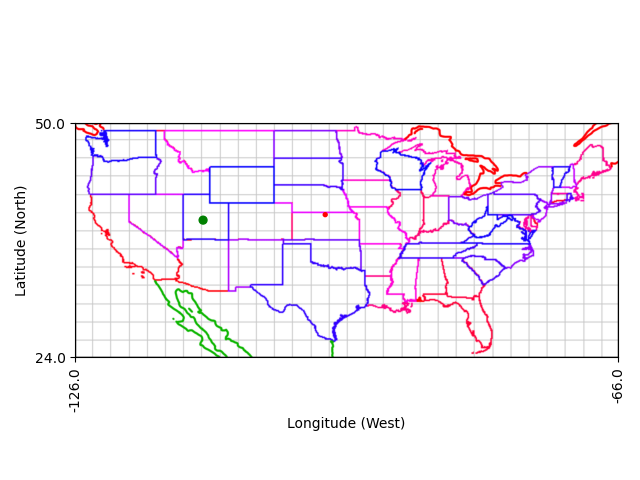
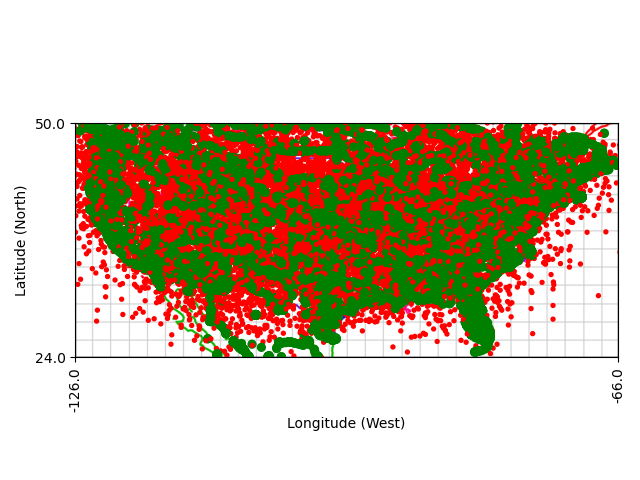
pray

diff --git a/evaluate_test.py b/evaluate_test.py
@@ -8,6 +8,7 @@ from torch.utils.data import Dataset, DataLoader
 import torch.nn as nn
 import matplotlib.pyplot as plt
 from gui import GUI
+from train import unfreeze_conv5_x
 
 
 def main(count, is_independent):
@@ -18,11 +19,15 @@ def main(count, is_independent):
     num_ftrs = model.fc.in_features
     model.fc = final_model(num_ftrs, 2).to(device)
     
-    # latest path
-    last_path = os.listdir('checkpoints')[-2]
-    last_path = 'checkpoints/' + last_path
-
-    model.load_state_dict(torch.load(last_path))
+    # # latest path
+    # last_path = os.listdir('checkpoints')[0]
+    # last_path = 'checkpoints/' + last_path
+    # checkpoint_cnn = torch.load('checkpoints/resnet50_cnn_0.pth')
+    # checkpoint_fc = torch.load('checkpoints/resnet50_fc_0.pth')
+    unfreeze_conv5_x(model)
+    model.fc.requires_grad = True
+    model.layer4.load_state_dict(torch.load('checkpoints/resnet50_cnn_6.pth'))
+    model.fc.load_state_dict(torch.load('checkpoints/resnet50_fc_6.pth'))
 
 
     transform = transforms.Compose([
@@ -35,11 +40,11 @@ def main(count, is_independent):
     train_set_val = int(0.8 * len(dataset))
     test_set_val = len(dataset) - train_set_val
     _, test_set = torch.utils.data.random_split(dataset, [train_set_val, test_set_val])
-    test_loader = DataLoader(test_set, batch_size=1, shuffle=True)
+    test_loader = DataLoader(test_set, batch_size=1, shuffle=False)
 
     loss_fn = nn.MSELoss()
     total_loss = 0
-
+    model.eval()
     if not is_independent:
         gui = GUI(num_rects_width=1, num_rects_height=1)
         gui.init()
@@ -56,17 +61,17 @@ def main(count, is_independent):
                 print(f"true_label: {true_val}, predicted_label: {output_val}")
 
                 # red is our guess
-                gui.place_dot(output_val[1], output_val[0], color='red', r=5)
+                gui.place_dot(output_val[1], output_val[0], color='red', r=10)
                 
                 # green is the correct
                 gui.place_dot(true_val[1], true_val[0], color='green', r=10)
 
                 loss = loss_fn(outputs, true_label)
                 total_loss += loss
+                gui.show(display_coords=False, show_boxes=True, index=i)
 
                 if i == (count-1):
                     break
-        gui.show(display_coords=False, show_boxes=True)
 
     else:
         with torch.no_grad():
@@ -84,15 +89,18 @@ def main(count, is_independent):
                 print(f"true_label: {true_val}, predicted_label: {output_val}")
 
                 # red is our guess
-                gui.place_dot(output_val[1], output_val[0], color='red', r=5)
+                gui.place_dot(output_val[1], output_val[0], color='red', r=10)
                 
-                # green is the correct
+                # # green is the correct
                 gui.place_dot(true_val[1], true_val[0], color='green', r=10)
+
+                # plt.plot([output_val[0], true_val[0]], [output_val[1], true_val[1]], 'ro-')
+                # plt.savefig('b.png')
 
                 loss = loss_fn(outputs, true_label)
                 total_loss += loss
 
-                gui.show(display_coords=False, show_boxes=True)
+                gui.show(display_coords=False, show_boxes=True, index=i)
 
                 if i == (count-1):
                     break

diff --git a/train.py b/train.py
@@ -9,6 +9,11 @@ import torch.nn as nn
 import matplotlib.pyplot as plt
 from gui import GUI
 
+def remove_checkpoint(file_path):
+    if os.path.exists(file_path):
+        os.remove(file_path)
+        print("File has been deleted.")
+
 def unfreeze_conv5_x(model):
     # Freeze all parameters first
     for param in model.parameters():
@@ -56,22 +61,29 @@ def main():
     iteration = 0
     plt_loss = [] 
     plt.xlabel('iteration')
-    plt.ylabel('Loss - Cross Entropy')
+    plt.ylabel('Loss - MSE Loss')
+    plt.title('Loss Graph')
     iteration = 0
-    
-    for epoch in range(4):
+
+    model.fc.requires_grad = True
+    model.layer4.load_state_dict(torch.load('checkpoints/resnet50_cnn_1.pth'))
+    model.fc.load_state_dict(torch.load('checkpoints/resnet50_fc_1.pth'))
+
+    for epoch in range(2, 7):
         for images, labels in dataloader:
             optimizer.zero_grad()
             outputs = model(images)
             outputs = outputs.to(device)
             loss = loss_fn(outputs, labels)
-            print(loss)
-            loss_new = loss.cpu().detach().numpy()
-            plt_loss.append([iteration, loss_new])
+            if iteration % 100 == 0:
+                print(loss)
+                loss_new = loss.cpu().detach().numpy()
+                plt_loss.append([iteration, loss_new])
             loss.backward()
             optimizer.step()
             iteration += 1
-        torch.save(model.state_dict(), f'checkpoints/resnet50_{epoch}.pth')
+        torch.save(model.layer4.state_dict(), f'checkpoints/resnet50_cnn_{epoch}.pth')
+        torch.save(model.fc.state_dict(), f'checkpoints/resnet50_fc_{epoch}.pth')
     # Set the model to evaluation mode
     model.eval()
     new_x = []

diff --git a/gui.py b/gui.py
@@ -62,7 +62,7 @@ class GUI: # class for image
     def toggle_ticks(self, show_ticks):
         self.show_ticks = show_ticks
     
-    def show(self, display_coords=False, show_boxes=False): 
+    def show(self,display_coords=False, show_boxes=False, index=False): 
         _, map = plt.subplots()
         map.imshow(Image.open(self.image_loc))
 
@@ -96,7 +96,8 @@ class GUI: # class for image
 
         plt.tight_layout()
         #plt.show()
-        plt.savefig("output.png")
+        plt.savefig(f"Predictions_new/prediction_new_{index}.png")
+
 
 
     def generate_random_output(self):
